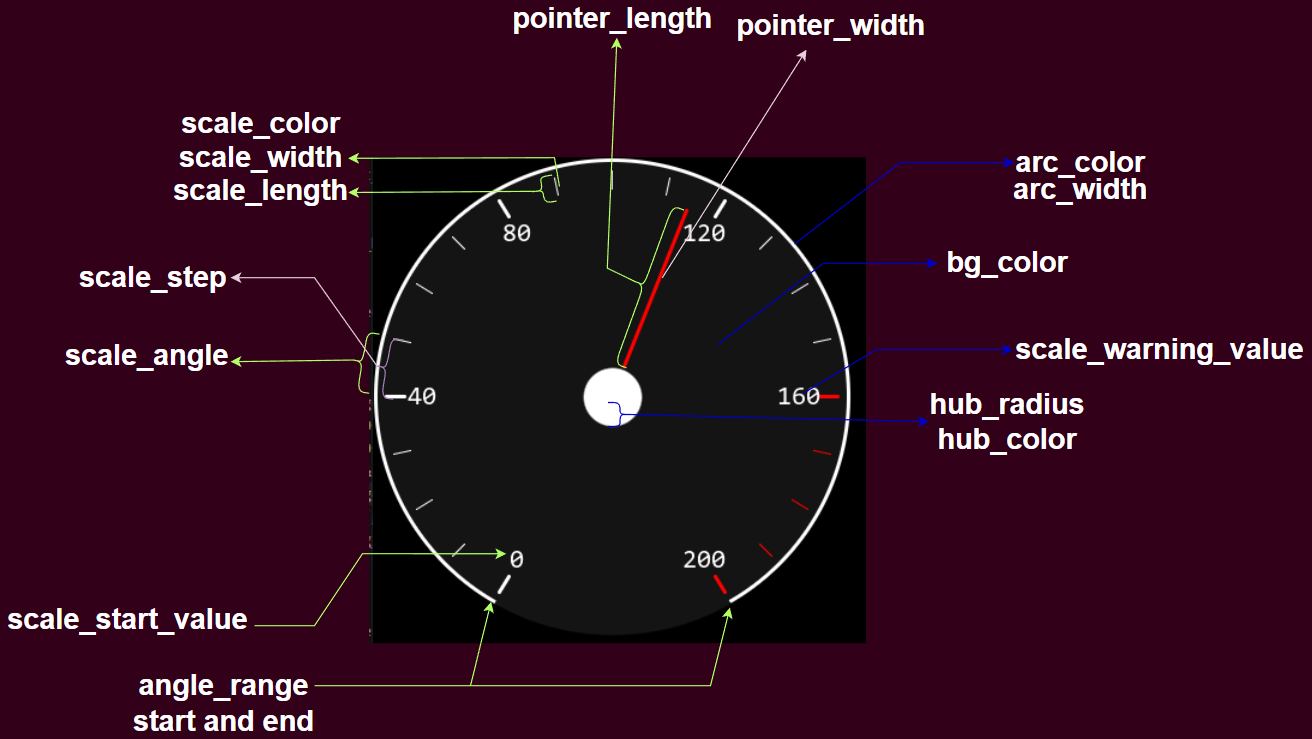
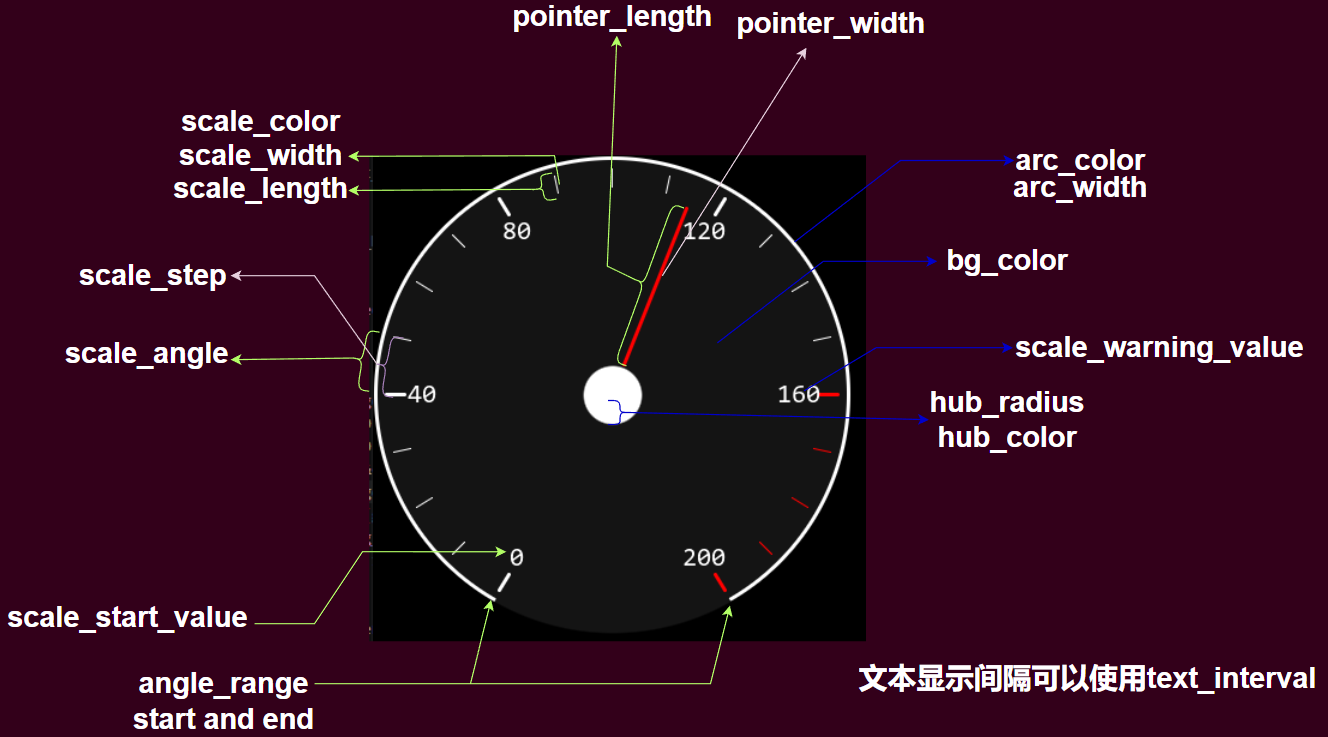
chore: add text interval support

diff --git a/source/widgets/gauge/sgl_gauge.h b/source/widgets/gauge/sgl_gauge.h
@@ -33,6 +33,10 @@
 #include <sgl_cfgfix.h>
 #include <string.h>
 
+#ifdef __cplusplus
+extern "C" {
+#endif
+
 /**
  * @brief sgl gauge widget, How to use, For example:
  *   sgl_obj_t *gauge = sgl_gauge_create(NULL);
@@ -49,7 +53,8 @@ typedef struct sgl_gauge {
     sgl_obj_t  obj;
     int16_t    scale_start;
     uint16_t   scale_step;
-    int16_t    scale_angle;
+    uint8_t    scale_angle;
+    uint8_t    text_interval;
     int16_t    angle_start;
     int16_t    angle_end;
     sgl_color_t bg_color;
@@ -229,11 +234,23 @@ void sgl_gauge_set_scale_start_value(sgl_obj_t *obj, int16_t value);
 void sgl_gauge_set_scale_step_value(sgl_obj_t *obj, uint16_t value);
 
 /**
+ * @brief set gauge text interval
+ * @param obj gauge object
+ * @param interval gauge text interval
+ * @return none
+ */
+void sgl_gauge_set_text_interval(sgl_obj_t *obj, uint8_t interval);
+
+/**
  * @brief set gauge alpha
  * @param obj gauge object
  * @param alpha gauge alpha
  * @return none
  */
 void sgl_gauge_set_alpha(sgl_obj_t *obj, uint8_t alpha);
+
+#ifdef __cplusplus
+}
+#endif
 
 #endif // !__SGL_GAUGE_H__

diff --git a/source/widgets/gauge/sgl_gauge.c b/source/widgets/gauge/sgl_gauge.c
@@ -134,10 +134,10 @@ static void sgl_gauge_construct_cb(sgl_surf_t *surf, sgl_obj_t* obj, sgl_event_t
             sgl_sprintf(text, "%d", scale_mask);
             text_len = sgl_font_get_string_width(text, gauge->font);
 
-            if ((count & 0x3) == 0) {
+            if ((count & gauge->text_interval) == 0) {
                 int32_t tx = (text_cr * cos_val) / SGL_SIN_FIXED_ONE + cx;
                 int32_t ty = (text_cr * sin_val) / SGL_SIN_FIXED_ONE + cy;
-                txt_x = tx - (text_len) / 2 - 1;
+                txt_x = tx - (text_len) / 2 - 2;
                 txt_y = ty - (sgl_font_get_height(gauge->font) / 2);
 
                 draw_line_fill_slanted(surf, &obj->area, x_out, y_out, x_in, y_in, gauge->scale_width * 2, scale_color, gauge->alpha);
@@ -199,6 +199,7 @@ sgl_obj_t* sgl_gauge_create(sgl_obj_t* parent)
     gauge->scale_warning = INT16_MAX;
     gauge->value = 0;
     gauge->arc_width = 2;
+    gauge->text_interval = 0x3;
     gauge->font = sgl_get_system_font();
 
     return obj;
@@ -449,6 +450,19 @@ void sgl_gauge_set_scale_step_value(sgl_obj_t *obj, uint16_t value)
 {
     sgl_gauge_t *gauge = sgl_container_of(obj, sgl_gauge_t, obj);
     gauge->scale_step = value;
+    sgl_obj_set_dirty(obj);
+}
+
+/**
+ * @brief set gauge text interval
+ * @param obj gauge object
+ * @param interval gauge text interval
+ * @return none
+ */
+void sgl_gauge_set_text_interval(sgl_obj_t *obj, uint8_t interval)
+{
+    sgl_gauge_t *gauge = sgl_container_of(obj, sgl_gauge_t, obj);
+    gauge->text_interval = interval;
     sgl_obj_set_dirty(obj);
 }
 

diff --git a/source/core/sgl_math.c b/source/core/sgl_math.c
@@ -130,13 +130,7 @@ int32_t sgl_sin(int16_t angle)
 {
     int16_t ret = 0;
 
-    while (angle >= 360) {
-        angle -= 360;
-    }
-    while (angle < 0) {
-        angle += 360;
-    }
-
+    angle = sgl_mod360(angle);
     if (angle < 0) {
         angle = 360 + angle;
     }

diff --git a/source/widgets/spectrum/sgl_spectrum.h b/source/widgets/spectrum/sgl_spectrum.h
@@ -39,6 +39,9 @@
 #define SGL_SPECTRUM_MODE_BAR_HAT                  (SGL_SPECTRUM_MODE_HAT_FLAG | SGL_SPECTRUM_MODE_BAR)
 #define SGL_SPECTRUM_MODE_BLOCK_HAT                (SGL_SPECTRUM_MODE_HAT_FLAG | SGL_SPECTRUM_MODE_BLOCK)
 
+#ifdef __cplusplus
+extern "C" {
+#endif
 
 /**
  * @brief sgl spectrum struct
@@ -125,5 +128,9 @@ void sgl_spectrum_set_bar_hat_height(sgl_obj_t *obj, uint8_t height);
  * @return none
  */
 void sgl_spectrum_set_alpha(sgl_obj_t *obj, uint8_t alpha);
+
+#ifdef __cplusplus
+}
+#endif
 
 #endif // !__SGL_SPECTRUM_H__